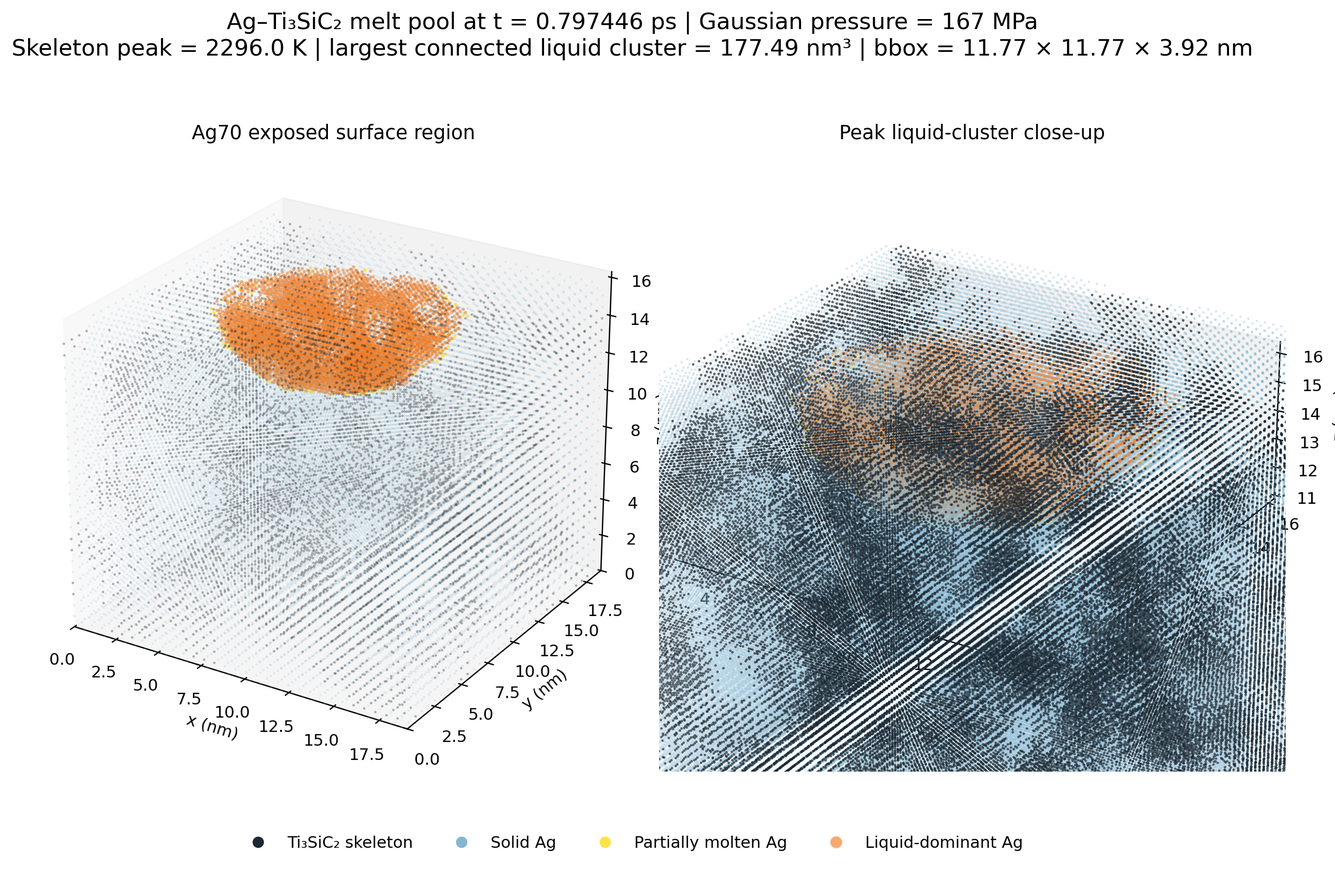
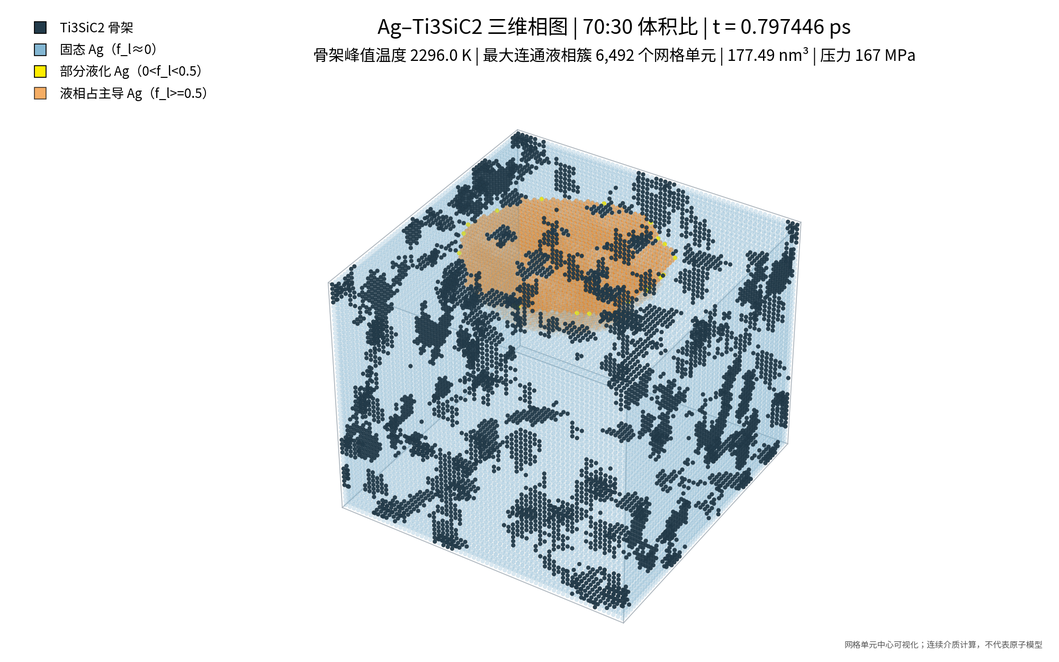
Render P1H peak pool in reference 3D style

diff --git a/models/ag_ti3sic2_qsgs_1to1_finer/runs/single_temperature_mesh2_validation_20261027/liquid_ag_flow_p1h_arc_pressure_20261105/render_p1h_melt_pool_3d.py b/models/ag_ti3sic2_qsgs_1to1_finer/runs/single_temperature_mesh2_validation_20261027/liquid_ag_flow_p1h_arc_pressure_20261105/render_p1h_melt_pool_3d.py
@@ -1,5 +1,5 @@
 #!/usr/bin/env python3
-"""Render P1H fixed-grid thermal/VOF fields as a 3D melt-pool view."""
+"""Render a dense, atom-like 3D view of a P1H continuum-grid snapshot."""
 from __future__ import annotations
 
 import argparse
@@ -9,112 +9,163 @@ from pathlib import Path
 
 import matplotlib.pyplot as plt
 import numpy as np
+from matplotlib import font_manager
 from matplotlib.lines import Line2D
 
 HEADER = struct.Struct("<8s6I5d")
-EXPECTED_MAGIC = b"P1HSNAP1"
-FIELD_COUNT = 20
+MAIN_MAGIC = b"P1HSNAP1"
+MAIN_FIELD_COUNT = 20
 
 
 def read_frame(path: Path):
     raw = gzip.open(path, "rb").read() if path.suffix == ".gz" else path.read_bytes()
+    if len(raw) < HEADER.size:
+        raise ValueError(f"short P1H frame: {path}")
     magic, version, nx, ny, nz, nfields, flags, time_ps, dx_m, x0, y0, z0 = HEADER.unpack_from(raw)
-    if magic != EXPECTED_MAGIC or version != 1 or nfields != FIELD_COUNT:
-        raise ValueError(f"unexpected P1H snapshot header in {path}")
+    if (magic, version, nfields) != (MAIN_MAGIC, 1, MAIN_FIELD_COUNT):
+        raise ValueError(f"unexpected P1H frame header in {path}")
     expected = HEADER.size + 4 * nfields * nx * ny * nz
     if len(raw) != expected:
-        raise ValueError(f"incomplete snapshot: expected {expected} bytes, got {len(raw)}")
+        raise ValueError(f"partial frame: expected {expected} bytes, got {len(raw)}")
     fields = np.frombuffer(raw, dtype="<f4", offset=HEADER.size).reshape(nfields, nx, ny, nz)
     if not np.isfinite(fields).all():
-        raise ValueError("snapshot contains non-finite values")
+        raise ValueError("P1H frame contains NaN or Inf")
     return fields, (nx, ny, nz), flags, time_ps, dx_m, (x0, y0, z0)
 
 
-def draw_panel(ax, coords, masks, colors, alphas, limits, title, downsample):
-    x, y, z = coords
-    colors_by_name = colors
-    for name in ("solid_ag", "skeleton", "partial_ag", "liquid_ag"):
-        mask = masks[name]
-        if downsample is not None and name in ("solid_ag", "skeleton"):
-            mask = mask & downsample
-        if not np.any(mask):
-            continue
-        ax.scatter(x[mask], y[mask], z[mask], s=4 if name in ("partial_ag", "liquid_ag") else 2.4,
-                   c=colors_by_name[name], alpha=alphas[name], depthshade=False,
-                   linewidths=0, rasterized=True)
-    (xmin, xmax), (ymin, ymax), (zmin, zmax) = limits
-    ax.set_xlim(xmin, xmax)
-    ax.set_ylim(ymin, ymax)
-    ax.set_zlim(zmin, zmax)
-    ax.set_box_aspect((xmax-xmin, ymax-ymin, zmax-zmin))
-    ax.set_xlabel("x (nm)", labelpad=1)
-    ax.set_ylabel("y (nm)", labelpad=1)
-    ax.set_zlabel("z (nm)", labelpad=1)
-    ax.set_title(title, pad=4)
-    ax.view_init(elev=25, azim=-58)
-    ax.grid(False)
+def add_box_edges(ax, bounds, color="#aab3bb", linewidth=0.9):
+    (xmin, xmax), (ymin, ymax), (zmin, zmax) = bounds
+    for y in (ymin, ymax):
+        for z in (zmin, zmax):
+            ax.plot([xmin, xmax], [y, y], [z, z], color=color, lw=linewidth)
+    for x in (xmin, xmax):
+        for z in (zmin, zmax):
+            ax.plot([x, x], [ymin, ymax], [z, z], color=color, lw=linewidth)
+    for x in (xmin, xmax):
+        for y in (ymin, ymax):
+            ax.plot([x, x], [y, y], [zmin, zmax], color=color, lw=linewidth)
 
 
 def main():
     parser = argparse.ArgumentParser()
-    parser.add_argument("--main", required=True, type=Path, help="Compressed or raw P1H thermal/VOF frame")
+    parser.add_argument("--main", required=True, type=Path, help="Compressed/raw P1H thermal and material frame")
     parser.add_argument("--output", required=True, type=Path)
-    parser.add_argument("--pressure-mpa", type=float, default=0.0)
-    parser.add_argument("--cluster-volume-nm3", type=float, default=float("nan"))
-    parser.add_argument("--cluster-bbox-nm", type=float, nargs=3, metavar=("X", "Y", "Z"), default=(float("nan"),)*3)
-    parser.add_argument("--pool-bounds-nm", type=float, nargs=6, metavar=("XMIN", "XMAX", "YMIN", "YMAX", "ZMIN", "ZMAX"),
-                        default=(3.32, 15.09, 3.62, 15.39, 11.77, 15.70))
+    parser.add_argument("--pressure-mpa", type=float, default=0.)
+    parser.add_argument("--ratio", default="70:30")
+    parser.add_argument("--largest-cluster-cells", type=int, default=0)
+    parser.add_argument("--largest-cluster-nm3", type=float, default=float("nan"))
+    parser.add_argument("--bbox-nm", type=float, nargs=3, metavar=("X", "Y", "Z"), default=(float("nan"),)*3)
     args = parser.parse_args()
 
-    fields, (nx, ny, nz), flags, time_ps, dx_m, (x0_m, y0_m, z0_m) = read_frame(args.main)
-    vof, ag, skeleton, liquid_fraction = fields[0], fields[2], fields[3], fields[4]
+    # Noto Sans CJK is available in the cloud image; register it for Chinese labels.
+    font_candidates = ["/usr/share/fonts/opentype/noto/NotoSansCJK-Regular.ttc",
+                      "/usr/share/fonts/truetype/noto/NotoSansCJK-Regular.ttc"]
+    for font in font_candidates:
+        if Path(font).exists():
+            font_manager.fontManager.addfont(font)
+            plt.rcParams["font.family"] = font_manager.FontProperties(fname=font).get_name()
+            break
+    plt.rcParams["axes.unicode_minus"] = False
+
+    fields, (nx, ny, nz), _, time_ps, dx_m, origin_m = read_frame(args.main)
+    liquid_fraction = fields[4]
     temperature = fields[5]
+    material_id = np.rint(fields[19]).astype(np.uint8)
+    ag_cells = material_id == 1
+    skeleton = material_id == 2
+    solid_ag = ag_cells & (liquid_fraction <= 0.01)
+    partial_ag = ag_cells & (liquid_fraction > 0.01) & (liquid_fraction < 0.5)
+    liquid_ag = ag_cells & (liquid_fraction >= 0.5)
+    sample = ag_cells | skeleton
+
+    # Render the sample's outer and pore-facing shell densely, as in an
+    # atom/voxel model, while retaining the entire liquid cluster so the pool
+    # remains visible through the translucent cell display.
+    padded = np.pad(sample, 1, constant_values=False)
+    interior = (padded[2:,1:-1,1:-1] & padded[:-2,1:-1,1:-1] &
+                padded[1:-1,2:,1:-1] & padded[1:-1,:-2,1:-1] &
+                padded[1:-1,1:-1,2:] & padded[1:-1,1:-1,:-2])
+    surface_shell = sample & ~interior
+
     dx_nm = dx_m * 1e9
-    x = x0_m*1e9 + np.arange(nx, dtype=np.float32)*dx_nm
-    y = y0_m*1e9 + np.arange(ny, dtype=np.float32)*dx_nm
-    z = z0_m*1e9 + np.arange(nz, dtype=np.float32)*dx_nm
+    origin_nm = np.asarray(origin_m, dtype=np.float64) * 1e9
+    x = origin_nm[0] + (np.arange(nx) + 0.5) * dx_nm
+    y = origin_nm[1] + (np.arange(ny) + 0.5) * dx_nm
+    z = origin_nm[2] + (np.arange(nz) + 0.5) * dx_nm
     xx, yy, zz = np.meshgrid(x, y, z, indexing="ij")
 
-    sample = vof > 0.5
-    sc = sample & (skeleton > 0.5)
-    ag_cells = sample & (ag > 0.5)
-    solid = ag_cells & (liquid_fraction < 0.01)
-    partial = ag_cells & (liquid_fraction >= 0.01) & (liquid_fraction < 0.5)
-    liquid = ag_cells & (liquid_fraction >= 0.5)
-    masks = {"skeleton": sc, "solid_ag": solid, "partial_ag": partial, "liquid_ag": liquid}
-    coords = (xx, yy, zz)
-    colors = {"skeleton":"#1c2933", "solid_ag":"#83b6d2", "partial_ag":"#ffe24a", "liquid_ag":"#f27b22"}
-    alphas = {"skeleton":0.35, "solid_ag":0.18, "partial_ag":0.88, "liquid_ag":0.56}
+    occupied_z = np.flatnonzero(np.any(sample, axis=(0, 1)))
+    if not occupied_z.size:
+        raise ValueError("snapshot has no sample cells")
+    bounds = ((origin_nm[0], origin_nm[0] + nx*dx_nm),
+              (origin_nm[1], origin_nm[1] + ny*dx_nm),
+              (origin_nm[2] + occupied_z[0]*dx_nm,
+               origin_nm[2] + (occupied_z[-1]+1)*dx_nm))
 
-    ix, iy, iz = np.indices((nx, ny, nz))
-    stride = ((ix % 2) == 0) & ((iy % 2) == 0) & ((iz % 2) == 0)
-    full_limits = ((x[0], x[-1]), (y[0], y[-1]), (z[0], min(z[-1], 16.3)))
-    bx0,bx1,by0,by1,bz0,bz1=args.pool_bounds_nm
-    zoom_limits=((bx0-1.0,bx1+1.0),(by0-1.0,by1+1.0),(bz0-0.9,bz1+0.7))
+    colors = {"skeleton":"#233b4a", "solid_ag":"#83b6d2",
+              "partial_ag":"#ffed00", "liquid_ag":"#f28a22"}
+    categories = [
+        # Solid Ag is deliberately translucent so the subsurface liquid pool
+        # can be seen through the porous matrix, as in the supplied reference.
+        ("solid_ag", solid_ag & surface_shell, 20, 0.30, "#527e96"),
+        ("skeleton", skeleton & surface_shell, 21, 0.96, "#162936"),
+        ("partial_ag", partial_ag & surface_shell, 23, 1.00, "#cab900"),
+        ("liquid_ag", liquid_ag & surface_shell, 24, 0.72, "#ad5112"),
+    ]
 
-    fig = plt.figure(figsize=(14, 7.6), facecolor="white")
-    ax1=fig.add_subplot(1,2,1,projection="3d")
-    ax2=fig.add_subplot(1,2,2,projection="3d")
-    draw_panel(ax1,coords,masks,colors,alphas,full_limits,"Ag70 exposed surface region",stride)
-    draw_panel(ax2,coords,masks,colors,{"skeleton":0.72,"solid_ag":0.3,"partial_ag":0.95,"liquid_ag":0.66},zoom_limits,"Peak liquid-cluster close-up",None)
-    # The solver counts any non-negligible skeleton occupancy when reporting
-    # Tmax_SC; visualization uses >0.5 only to assign opaque skeleton markers.
-    sc_occupied=skeleton > 1e-8
-    max_sc_temp=float(np.max(temperature[sc_occupied])) if np.any(sc_occupied) else float("nan")
-    fig.suptitle(f"Ag–Ti₃SiC₂ melt pool at t = {time_ps:.6f} ps | Gaussian pressure = {args.pressure_mpa:g} MPa\n"
-                 f"Skeleton peak = {max_sc_temp:.1f} K | largest connected liquid cluster = {args.cluster_volume_nm3:.2f} nm³ | "
-                 f"bbox = {args.cluster_bbox_nm[0]:.2f} × {args.cluster_bbox_nm[1]:.2f} × {args.cluster_bbox_nm[2]:.2f} nm",
-                 fontsize=14, y=0.98)
-    legend=[Line2D([0],[0],marker="o",color="w",label="Ti₃SiC₂ skeleton",markerfacecolor=colors["skeleton"],markersize=8),
-            Line2D([0],[0],marker="o",color="w",label="Solid Ag",markerfacecolor=colors["solid_ag"],markersize=8),
-            Line2D([0],[0],marker="o",color="w",label="Partially molten Ag",markerfacecolor=colors["partial_ag"],markersize=8),
-            Line2D([0],[0],marker="o",color="w",label="Liquid-dominant Ag",markerfacecolor=colors["liquid_ag"],alpha=0.65,markersize=8)]
-    fig.legend(handles=legend,loc="lower center",ncol=4,frameon=False,bbox_to_anchor=(0.5,0.015))
-    fig.subplots_adjust(top=0.84,bottom=0.11,wspace=0.02)
-    args.output.parent.mkdir(parents=True,exist_ok=True)
-    fig.savefig(args.output,dpi=220,bbox_inches="tight")
-    print(f"wrote {args.output}; shape={nx}x{ny}x{nz}, time={time_ps:.9f} ps, dx={dx_nm:.9f} nm")
-    print(f"cells: skeleton={int(sc.sum())}, solid Ag={int(solid.sum())}, partial Ag={int(partial.sum())}, liquid-dominant Ag={int(liquid.sum())}")
+    # Plot all occupied fixed-grid cell centers as shaded spheres. This is a
+    # visualization of continuum cells, not an atomistic reconstruction.
+    fig = plt.figure(figsize=(16, 10), facecolor="white")
+    ax = fig.add_axes([0.10, 0.035, 0.86, 0.80], projection="3d")
+    # The translucent internal liquid is drawn first; surface materials then
+    # retain the shell colors and depth cues.
+    inner_liquid = liquid_ag & ~surface_shell
+    if np.any(inner_liquid):
+        ax.scatter(xx[inner_liquid], yy[inner_liquid], zz[inner_liquid],
+                   s=14, c=colors["liquid_ag"], alpha=0.18,
+                   edgecolors="none", depthshade=False, rasterized=True)
+    for name, mask, size, alpha, edge in categories:
+        if np.any(mask):
+            ax.scatter(xx[mask], yy[mask], zz[mask], s=size, c=colors[name],
+                       alpha=alpha, edgecolors=edge, linewidths=0.12,
+                       depthshade=True, rasterized=True)
+
+    (xmin, xmax), (ymin, ymax), (zmin, zmax) = bounds
+    ax.set_xlim(xmin, xmax)
+    ax.set_ylim(ymin, ymax)
+    ax.set_zlim(zmin, zmax)
+    ax.set_box_aspect((xmax-xmin, ymax-ymin, zmax-zmin))
+    # Use a higher camera angle so the exposed top and the pool read clearly,
+    # matching the reference render while preserving the physical aspect ratio.
+    ax.view_init(elev=36, azim=-58)
+    ax.set_proj_type("persp", focal_length=0.95)
+    ax.set_axis_off()
+    add_box_edges(ax, bounds)
+
+    sc_peak = float(np.max(temperature[skeleton])) if np.any(skeleton) else float("nan")
+    legend = [
+        Line2D([0],[0], marker="s", color="none", label="Ti3SiC2 骨架", markerfacecolor=colors["skeleton"], markersize=13),
+        Line2D([0],[0], marker="s", color="none", label="固态 Ag（f_l≈0）", markerfacecolor=colors["solid_ag"], markersize=13),
+        Line2D([0],[0], marker="s", color="none", label="部分液化 Ag（0<f_l<0.5）", markerfacecolor=colors["partial_ag"], markersize=13),
+        Line2D([0],[0], marker="s", color="none", label="液相占主导 Ag（f_l>=0.5）", markerfacecolor=colors["liquid_ag"], alpha=0.7, markersize=13),
+    ]
+    fig.legend(handles=legend, loc="upper left", bbox_to_anchor=(0.015, 0.985),
+               frameon=False, ncol=1, fontsize=14, labelspacing=0.6, handletextpad=0.5)
+    fig.text(0.58, 0.957,
+             f"Ag–Ti3SiC2 三维相图 | {args.ratio} 体积比 | t = {time_ps:.6f} ps",
+             ha="center", va="center", fontsize=22)
+    fig.text(0.58, 0.915,
+             f"骨架峰值温度 {sc_peak:.1f} K | 最大连通液相簇 {args.largest_cluster_cells:,} 个网格单元 | "
+             f"{args.largest_cluster_nm3:.2f} nm³ | 压力 {args.pressure_mpa:g} MPa",
+             ha="center", va="center", fontsize=17)
+    fig.text(0.985, 0.018, "网格单元中心可视化；连续介质计算，不代表原子模型",
+             ha="right", va="bottom", fontsize=9, color="#555555")
+
+    args.output.parent.mkdir(parents=True, exist_ok=True)
+    fig.savefig(args.output, dpi=125, facecolor="white")
+    print(f"wrote {args.output}; t={time_ps:.9f} ps; grid={nx}x{ny}x{nz}; dx={dx_nm:.9f} nm")
+    print(f"cells: skeleton={int(skeleton.sum())}, solid Ag={int(solid_ag.sum())}, "
+          f"partial Ag={int(partial_ag.sum())}, liquid-dominant Ag={int(liquid_ag.sum())}")
 
 
 if __name__ == "__main__":
